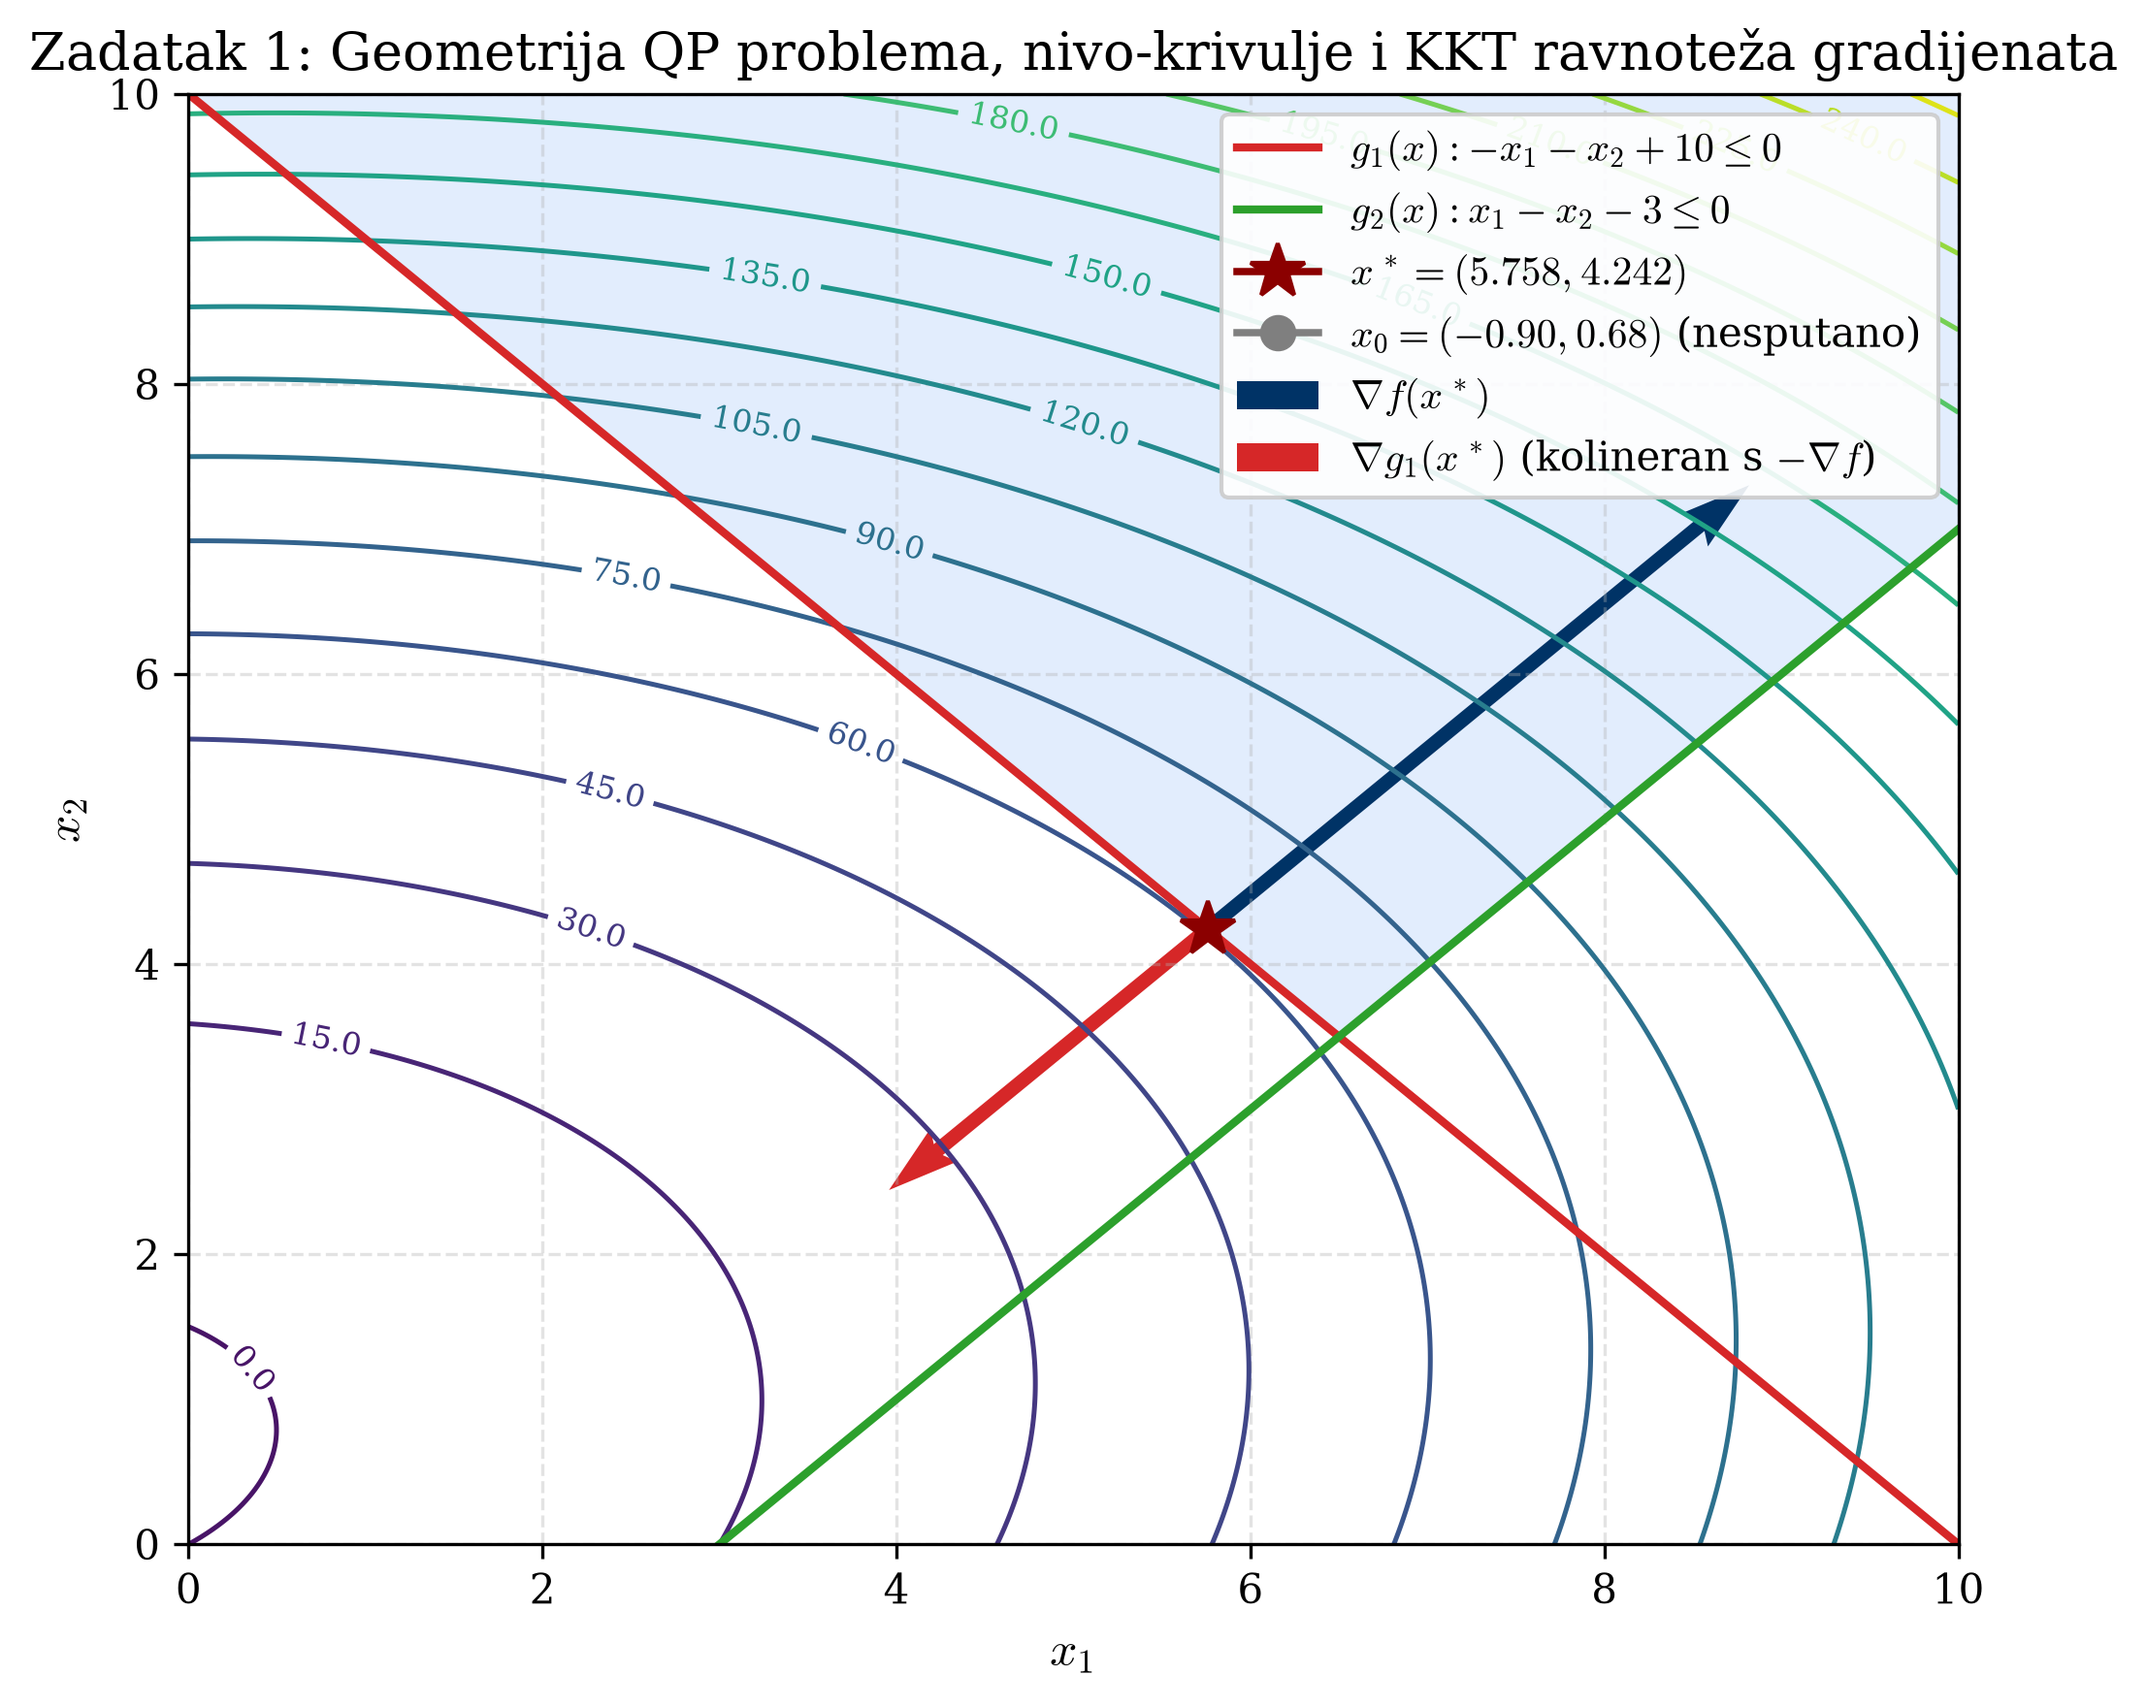
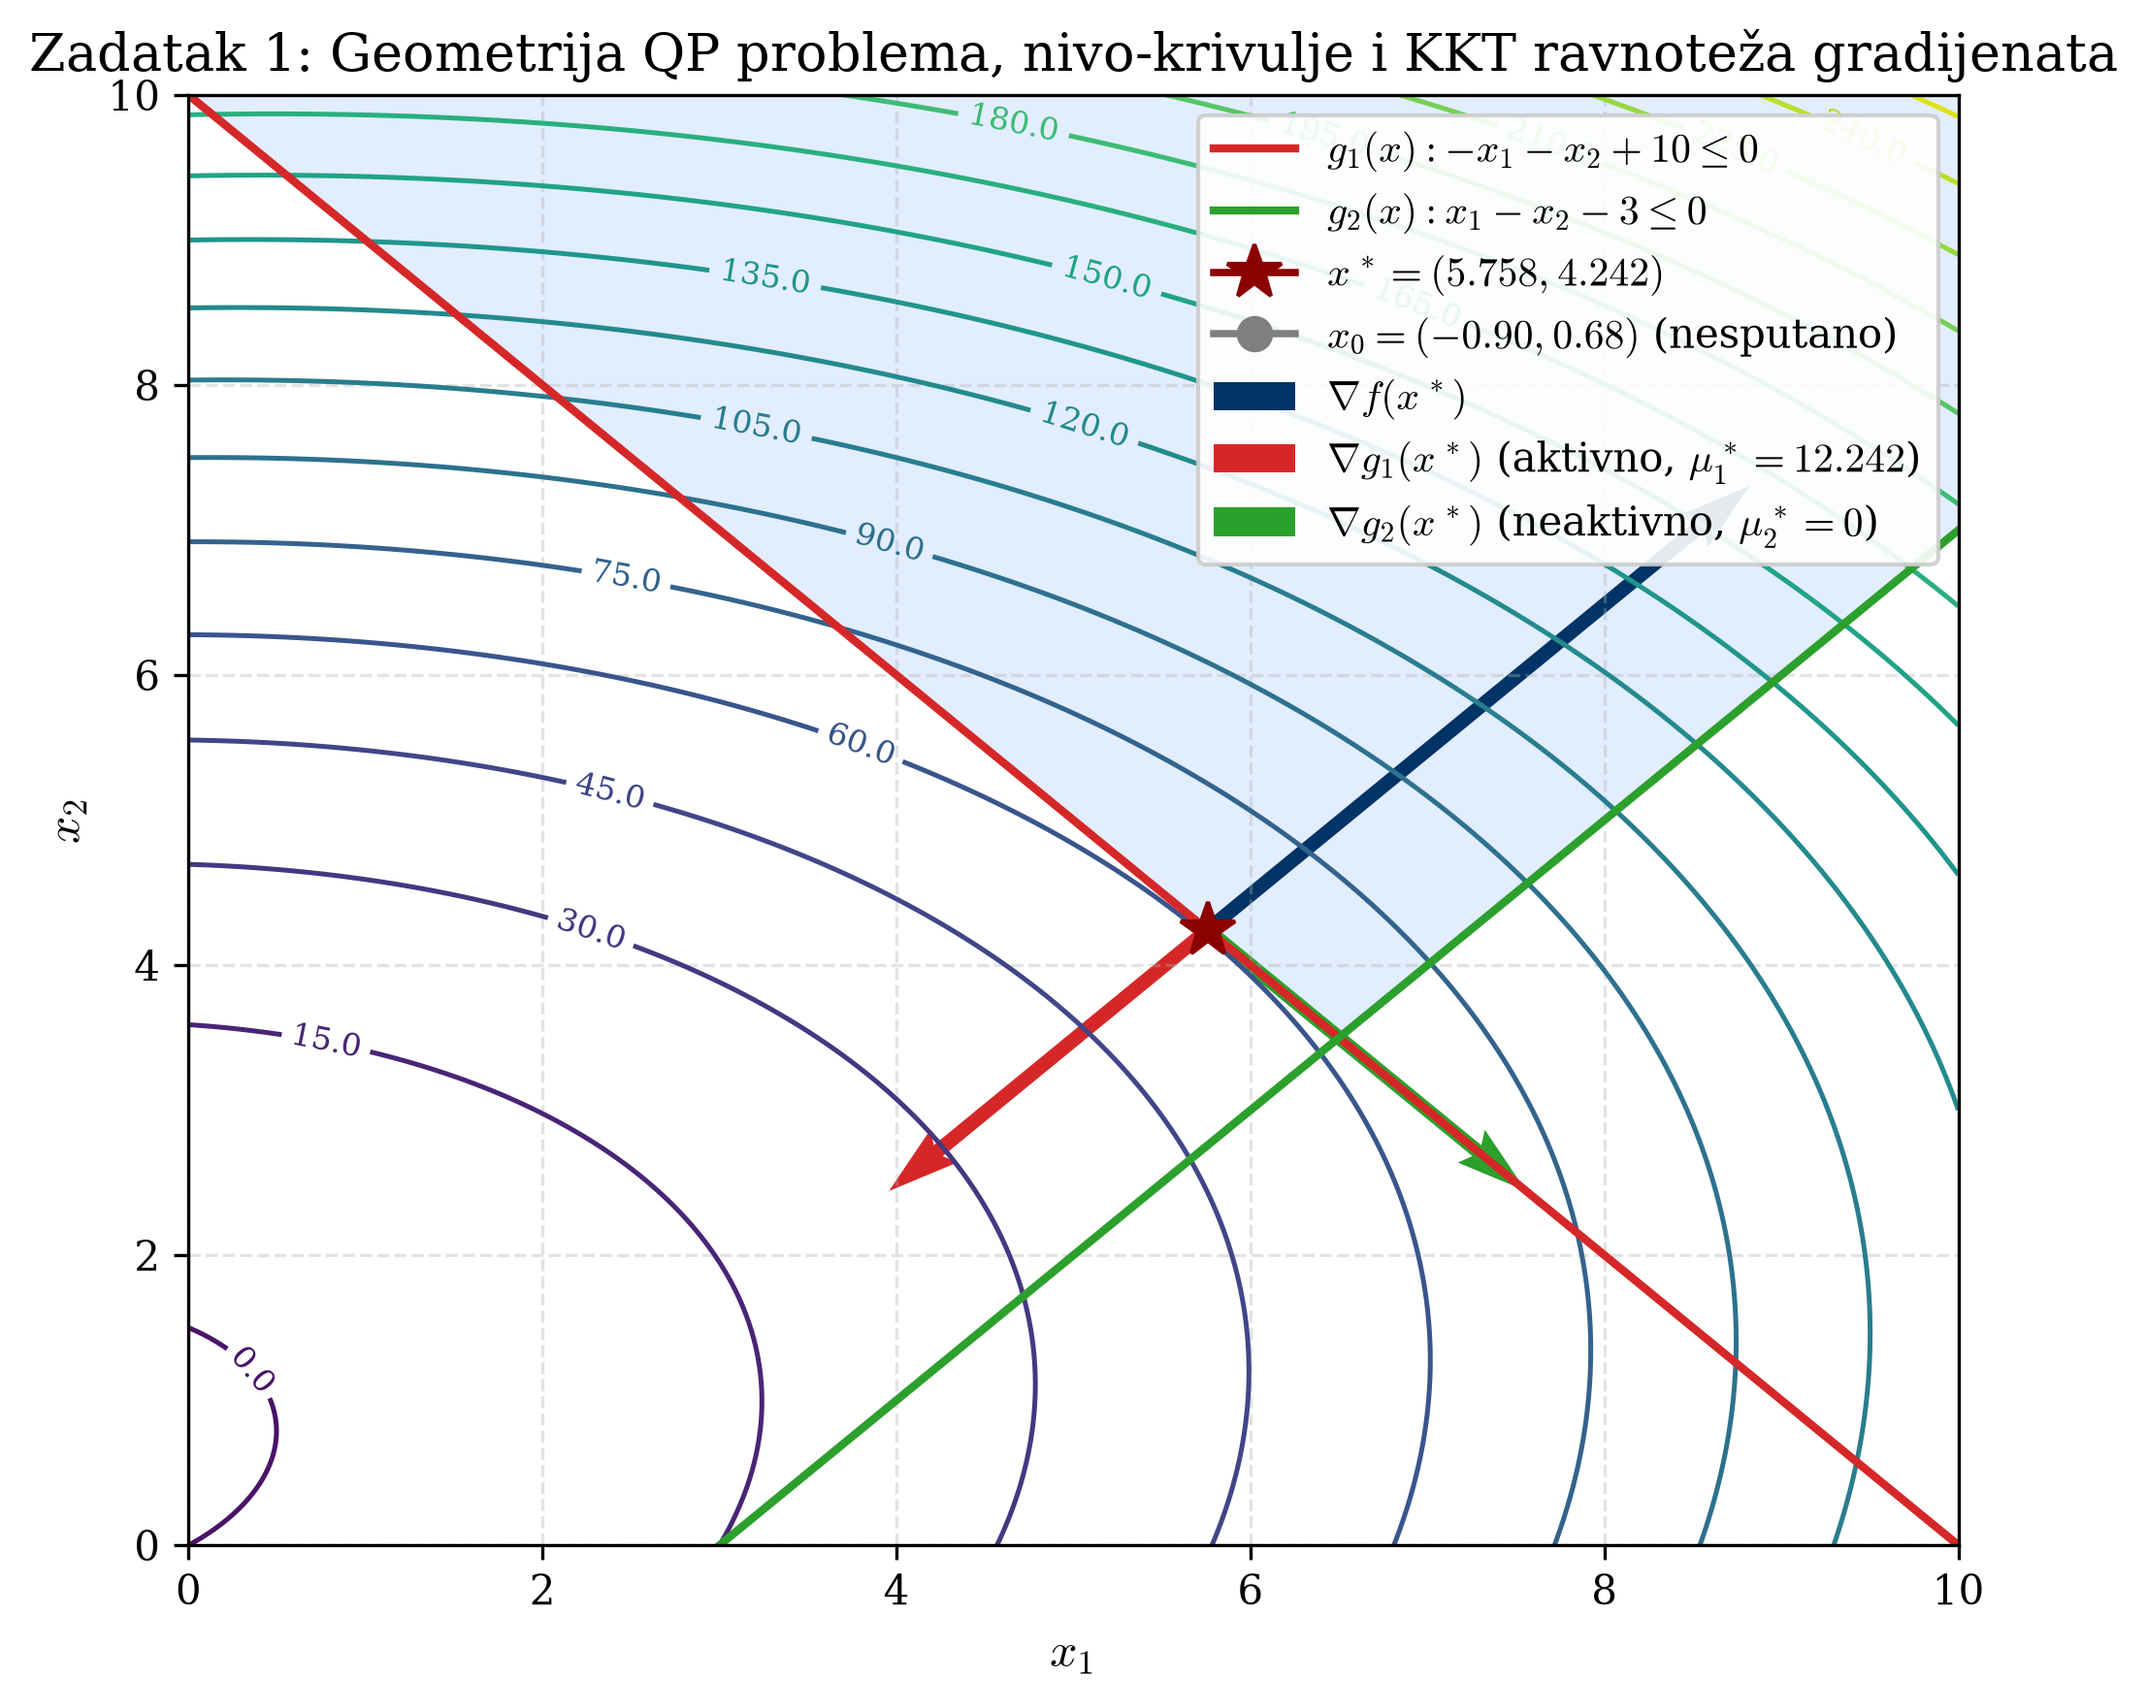
fix(task1): 🤖 [AI] add inactive constraint gradient vector to Figure 1.1, refine KKT equilibrium and correct tool attribution

diff --git a/docs/chapters/01-zadatak1-qp.tex b/docs/chapters/01-zadatak1-qp.tex
@@ -221,19 +221,19 @@ Na slici~\ref{fig:qp_primal} prikazana je geometrija QP problema u ravnini $(x_1
     \label{fig:qp_primal}
 \end{figure}
 
-U optimalnoj točki $x^* = (5.758, 4.242)$ gradijent funkcije cilja i gradijent aktivnog ograničenja iznose:
+U optimalnoj točki $x^* = (5.758, 4.242)$ gradijent funkcije cilja te gradijenti ograničenja iznose:
 \begin{equation}
-\nabla f(x^*) = \begin{bmatrix} 12.242424 \\ 12.242424 \end{bmatrix}, \quad \nabla g_1(x^*) = \begin{bmatrix} -1 \\ -1 \end{bmatrix}.
+\nabla f(x^*) = \begin{bmatrix} 12.242424 \\ 12.242424 \end{bmatrix}, \quad \nabla g_1(x^*) = \begin{bmatrix} -1 \\ -1 \end{bmatrix}, \quad \nabla g_2(x^*) = \begin{bmatrix} 1 \\ -1 \end{bmatrix}.
 \end{equation}
-Uočava se savršena kolinearnost suprotnog smjera:
+Uvjet stacionarnosti Lagrangeove funkcije u točki $x^*$ glasi:
 \begin{equation}
-\nabla f(x^*) + \mu_1^* \nabla g_1(x^*) = \begin{bmatrix} 12.242424 \\ 12.242424 \end{bmatrix} + 12.242424 \begin{bmatrix} -1 \\ -1 \end{bmatrix} = \begin{bmatrix} 0 \\ 0 \end{bmatrix}.
+\nabla f(x^*) + \mu_1^* \nabla g_1(x^*) + \mu_2^* \nabla g_2(x^*) = \begin{bmatrix} 12.242424 \\ 12.242424 \end{bmatrix} + 12.242424 \begin{bmatrix} -1 \\ -1 \end{bmatrix} + 0 \cdot \begin{bmatrix} 1 \\ -1 \end{bmatrix} = \begin{bmatrix} 0 \\ 0 \end{bmatrix}.
 \end{equation}
-Fizička interpretacija ovog uvjeta odgovara ravnoteži sila: gradijent funkcije cilja $\nabla f(x^*)$ teži pomaknuti točku prema unutrašnjosti (nesputanom minimumu $x_0$), no nailazi na reakciju veze (graničnu silu) normalnog vektora $\nabla g_1(x^*)$ proporcionalnu intenzitetu Lagrangeovog množitelja $\mu_1^* = 12.2424$.
+Budući da je drugo ograničenje strogo neaktivno ($g_2(x^*) = 5.757576 - 4.242424 - 3 = -1.484848 < 0$), iz uvjeta komplementarnosti slijedi $\mu_2^* = 0$. Vektor $\nabla g_2(x^*)$ usmjeren je prema nedopustivom poluprostoru drugog ograničenja i ne sudjeluje u ravnoteži sila. Ravnotežu u potpunosti ostvaruje aktivno ograničenje $g_1$: gradijent funkcije cilja $\nabla f(x^*)$ teži pomaknuti točku prema nesputanom minimumu $x_0$, čemu se suprotstavlja normalni vektor $\nabla g_1(x^*)$ intenzitetom $\mu_1^* = 12.2424$.
 
 \subsection{Numerička verifikacija u programskim paketima}
 
-Problem je numerički verificiran u programskim alatima MATLAB (\texttt{quadprog}, YALMIP) i Python (\texttt{scipy.optimize}, \texttt{cvxpy}). U tablici~\ref{tab:qp_comparison} prikazana je usporedba analitičkih i numeričkih rezultata.
+Problem je numerički verificiran u programskim alatima MATLAB (\texttt{quadprog}, \texttt{fmincon}) i Python (\texttt{scipy.optimize}, \texttt{cvxpy}). U tablici~\ref{tab:qp_comparison} prikazana je usporedba analitičkih i numeričkih rezultata.
 
 \begin{table}[H]
 \centering

diff --git a/for_validator/03_LATEX_SOURCE/chapters/01-zadatak1-qp.tex b/for_validator/03_LATEX_SOURCE/chapters/01-zadatak1-qp.tex
@@ -221,19 +221,19 @@ Na slici~\ref{fig:qp_primal} prikazana je geometrija QP problema u ravnini $(x_1
     \label{fig:qp_primal}
 \end{figure}
 
-U optimalnoj točki $x^* = (5.758, 4.242)$ gradijent funkcije cilja i gradijent aktivnog ograničenja iznose:
+U optimalnoj točki $x^* = (5.758, 4.242)$ gradijent funkcije cilja te gradijenti ograničenja iznose:
 \begin{equation}
-\nabla f(x^*) = \begin{bmatrix} 12.242424 \\ 12.242424 \end{bmatrix}, \quad \nabla g_1(x^*) = \begin{bmatrix} -1 \\ -1 \end{bmatrix}.
+\nabla f(x^*) = \begin{bmatrix} 12.242424 \\ 12.242424 \end{bmatrix}, \quad \nabla g_1(x^*) = \begin{bmatrix} -1 \\ -1 \end{bmatrix}, \quad \nabla g_2(x^*) = \begin{bmatrix} 1 \\ -1 \end{bmatrix}.
 \end{equation}
-Uočava se savršena kolinearnost suprotnog smjera:
+Uvjet stacionarnosti Lagrangeove funkcije u točki $x^*$ glasi:
 \begin{equation}
-\nabla f(x^*) + \mu_1^* \nabla g_1(x^*) = \begin{bmatrix} 12.242424 \\ 12.242424 \end{bmatrix} + 12.242424 \begin{bmatrix} -1 \\ -1 \end{bmatrix} = \begin{bmatrix} 0 \\ 0 \end{bmatrix}.
+\nabla f(x^*) + \mu_1^* \nabla g_1(x^*) + \mu_2^* \nabla g_2(x^*) = \begin{bmatrix} 12.242424 \\ 12.242424 \end{bmatrix} + 12.242424 \begin{bmatrix} -1 \\ -1 \end{bmatrix} + 0 \cdot \begin{bmatrix} 1 \\ -1 \end{bmatrix} = \begin{bmatrix} 0 \\ 0 \end{bmatrix}.
 \end{equation}
-Fizička interpretacija ovog uvjeta odgovara ravnoteži sila: gradijent funkcije cilja $\nabla f(x^*)$ teži pomaknuti točku prema unutrašnjosti (nesputanom minimumu $x_0$), no nailazi na reakciju veze (graničnu silu) normalnog vektora $\nabla g_1(x^*)$ proporcionalnu intenzitetu Lagrangeovog množitelja $\mu_1^* = 12.2424$.
+Budući da je drugo ograničenje strogo neaktivno ($g_2(x^*) = 5.757576 - 4.242424 - 3 = -1.484848 < 0$), iz uvjeta komplementarnosti slijedi $\mu_2^* = 0$. Vektor $\nabla g_2(x^*)$ usmjeren je prema nedopustivom poluprostoru drugog ograničenja i ne sudjeluje u ravnoteži sila. Ravnotežu u potpunosti ostvaruje aktivno ograničenje $g_1$: gradijent funkcije cilja $\nabla f(x^*)$ teži pomaknuti točku prema nesputanom minimumu $x_0$, čemu se suprotstavlja normalni vektor $\nabla g_1(x^*)$ intenzitetom $\mu_1^* = 12.2424$.
 
 \subsection{Numerička verifikacija u programskim paketima}
 
-Problem je numerički verificiran u programskim alatima MATLAB (\texttt{quadprog}, YALMIP) i Python (\texttt{scipy.optimize}, \texttt{cvxpy}). U tablici~\ref{tab:qp_comparison} prikazana je usporedba analitičkih i numeričkih rezultata.
+Problem je numerički verificiran u programskim alatima MATLAB (\texttt{quadprog}, \texttt{fmincon}) i Python (\texttt{scipy.optimize}, \texttt{cvxpy}). U tablici~\ref{tab:qp_comparison} prikazana je usporedba analitičkih i numeričkih rezultata.
 
 \begin{table}[H]
 \centering

diff --git a/for_validator/04_SOURCE_CODE/python/task1_qp_analysis.py b/for_validator/04_SOURCE_CODE/python/task1_qp_analysis.py
@@ -187,6 +187,7 @@ ax.plot(x_case1[0], x_case1[1], marker='o', markersize=8, color=COLORS['slate_gr
 # Gradients at x*
 grad_f_val = grad_f(x_case2)
 grad_g1_val = np.array([-1.0, -1.0])
+grad_g2_val = np.array([1.0, -1.0])
 scale_g = 1.8
 scale_f = 0.25
 
@@ -195,7 +196,10 @@ ax.quiver(x_case2[0], x_case2[1], grad_f_val[0]*scale_f, grad_f_val[1]*scale_f,
           width=0.008, label=r'$\nabla f(x^*)$')
 ax.quiver(x_case2[0], x_case2[1], grad_g1_val[0]*scale_g, grad_g1_val[1]*scale_g,
           angles='xy', scale_units='xy', scale=1, color=COLORS['accent_red'],
-          width=0.008, label=r'$\nabla g_1(x^*)$ (kolineran s $-\nabla f$)')
+          width=0.008, label=r'$\nabla g_1(x^*)$ (aktivno, $\mu_1^* = 12.242$)')
+ax.quiver(x_case2[0], x_case2[1], grad_g2_val[0]*scale_g, grad_g2_val[1]*scale_g,
+          angles='xy', scale_units='xy', scale=1, color=COLORS['forest_green'],
+          width=0.008, label=r'$\nabla g_2(x^*)$ (neaktivno, $\mu_2^* = 0$)')
 
 ax.set_xlim([0, 10])
 ax.set_ylim([0, 10])

diff --git a/src/task1_qp_analysis.py b/src/task1_qp_analysis.py
@@ -187,6 +187,7 @@ ax.plot(x_case1[0], x_case1[1], marker='o', markersize=8, color=COLORS['slate_gr
 # Gradients at x*
 grad_f_val = grad_f(x_case2)
 grad_g1_val = np.array([-1.0, -1.0])
+grad_g2_val = np.array([1.0, -1.0])
 scale_g = 1.8
 scale_f = 0.25
 
@@ -195,7 +196,10 @@ ax.quiver(x_case2[0], x_case2[1], grad_f_val[0]*scale_f, grad_f_val[1]*scale_f,
           width=0.008, label=r'$\nabla f(x^*)$')
 ax.quiver(x_case2[0], x_case2[1], grad_g1_val[0]*scale_g, grad_g1_val[1]*scale_g,
           angles='xy', scale_units='xy', scale=1, color=COLORS['accent_red'],
-          width=0.008, label=r'$\nabla g_1(x^*)$ (kolineran s $-\nabla f$)')
+          width=0.008, label=r'$\nabla g_1(x^*)$ (aktivno, $\mu_1^* = 12.242$)')
+ax.quiver(x_case2[0], x_case2[1], grad_g2_val[0]*scale_g, grad_g2_val[1]*scale_g,
+          angles='xy', scale_units='xy', scale=1, color=COLORS['forest_green'],
+          width=0.008, label=r'$\nabla g_2(x^*)$ (neaktivno, $\mu_2^* = 0$)')
 
 ax.set_xlim([0, 10])
 ax.set_ylim([0, 10])
